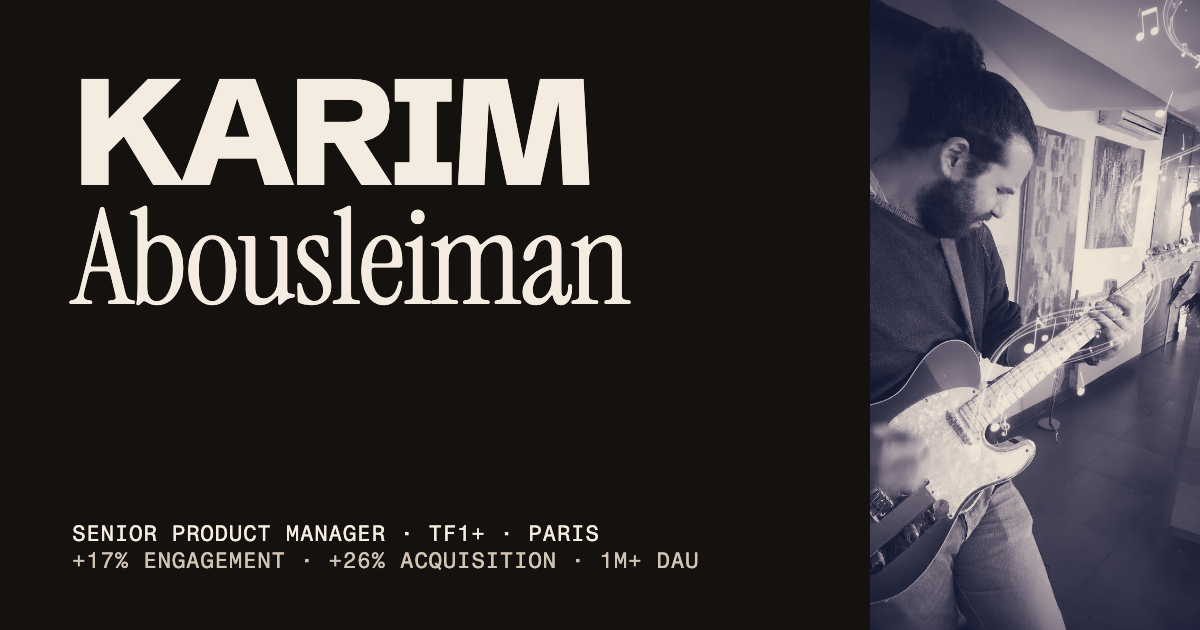
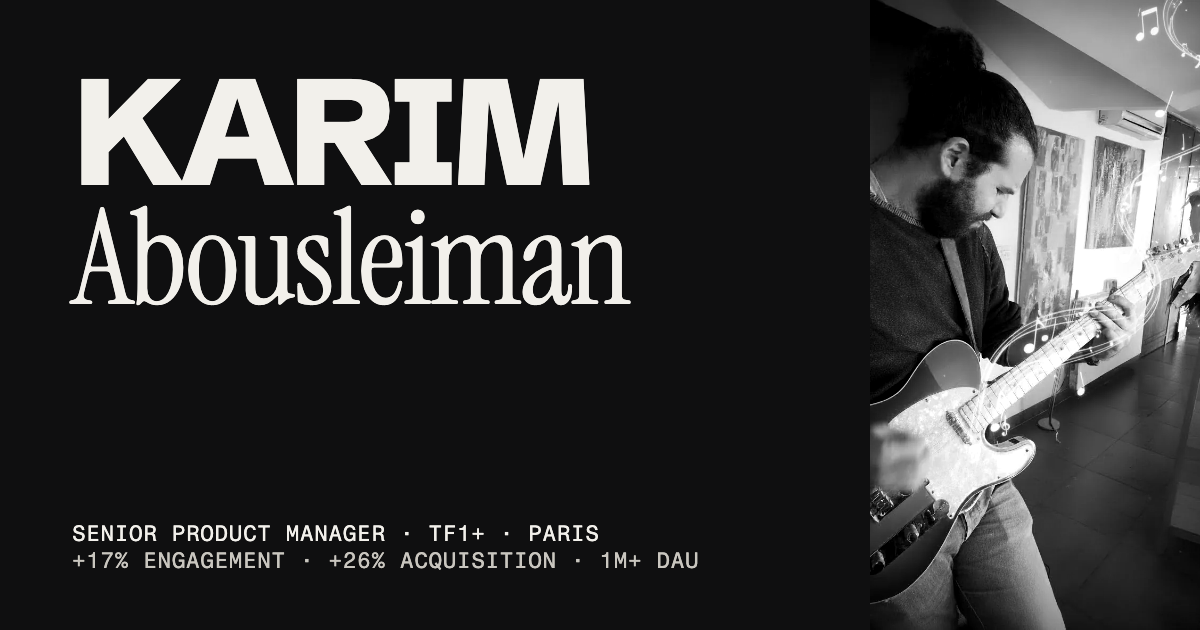
Return to the canvas palette: neutral dark, black-and-white portraits
- Restore near-black/off-white tokens and grayscale portraits
- Remove the coloured bands and duotone filter
- Outline every streaming button on the Music page
- Regenerate the link-preview image to match

Changed region(s): [[0.7092, 0.0, 1.0, 1.0], [0.9867, 0.0603, 1.0, 0.1206], [0.9558, 0.0302, 0.9867, 0.0603]]

diff --git a/src/pages/home.css b/src/pages/home.css
@@ -1,14 +1,12 @@
 .home {
-  /* Warm charcoal and cream, with a midnight "dusk": the blue hour above the sunset photographs. */
-  --h-bg: #15110e;
-  --h-dusk: #141c33;
-  --h-ink: #f5ece1;
-  --h-muted: #d0c4b5;
-  --h-body: #bfb3a5;
-  --h-meta: #a3978a;
-  --h-line: #2f2823;
-  --h-line-strong: #42382f;
-  --h-control: #7a6c60;
+  --h-bg: #0f0f10;
+  --h-ink: #f2f0eb;
+  --h-muted: #c9c6bf;
+  --h-body: #b9b7b1;
+  --h-meta: #9b9a96;
+  --h-line: #2a2a2d;
+  --h-line-strong: #3a3a3d;
+  --h-control: #6b6a67;
   --h-accent: #ff8a5c;
   --h-ease: cubic-bezier(0.16, 1, 0.3, 1);
 
@@ -147,8 +145,8 @@
 }
 
 @keyframes h-develop {
-  from { filter: url(#dusk-tone) brightness(0.2); }
-  to { filter: url(#dusk-tone) brightness(1); }
+  from { filter: grayscale(1) contrast(1.1) brightness(0.2); }
+  to { filter: grayscale(1) contrast(1.1) brightness(1); }
 }
 
 .home .intro-first { animation: h-focus 600ms var(--h-ease) both; }
@@ -157,20 +155,12 @@
 .home .intro-tag { animation: h-settle 500ms var(--h-ease) 760ms both; }
 .home .intro-portrait { animation: h-develop 1400ms var(--h-ease) 500ms both; }
 
-/* Portraits print in the dusk duotone: midnight shadows, blue-violet mids, cream highlights. */
 .home .mono-photo {
-  filter: url(#dusk-tone);
+  filter: grayscale(1) contrast(1.1);
 }
 
-/* A full-bleed midnight band that owns one region per page without breaking the container. */
-.home .dusk {
-  background: var(--h-dusk);
-  box-shadow: 0 0 0 100vmax var(--h-dusk);
-  clip-path: inset(0 -100vmax);
-}
-
-.home .dusk-fade {
-  background: linear-gradient(90deg, var(--h-dusk) 0%, transparent 40%);
+.home .photo-fade {
+  background: linear-gradient(90deg, var(--h-bg) 0%, transparent 40%);
 }
 
 .home .menu-panel {

diff --git a/src/components/SiteShell.tsx b/src/components/SiteShell.tsx
@@ -146,7 +146,7 @@ const SiteShell = ({ title, children }: { title: string; children: React.ReactNo
   useEffect(() => {
     const root = document.documentElement;
     const prev = root.style.background;
-    root.style.background = "#15110e";
+    root.style.background = "#0f0f10";
     return () => {
       root.style.background = prev;
     };
@@ -163,17 +163,7 @@ const SiteShell = ({ title, children }: { title: string; children: React.ReactNo
   return (
     <MotionConfig reducedMotion="user">
       <div className="home">
-        <svg aria-hidden="true" width="0" height="0" className="absolute">
-          <filter id="dusk-tone" colorInterpolationFilters="sRGB">
-            <feColorMatrix type="matrix" values="0.2126 0.7152 0.0722 0 0  0.2126 0.7152 0.0722 0 0  0.2126 0.7152 0.0722 0 0  0 0 0 1 0" />
-            <feComponentTransfer>
-              <feFuncR type="table" tableValues="0.06 0.50 0.96" />
-              <feFuncG type="table" tableValues="0.08 0.46 0.92" />
-              <feFuncB type="table" tableValues="0.17 0.52 0.86" />
-            </feComponentTransfer>
-          </filter>
-        </svg>
-        <header className="sticky top-0 z-20 border-b border-[var(--h-line)] bg-[rgb(21_17_14/0.88)] backdrop-blur-md md:border-transparent md:bg-[var(--h-bg)] md:backdrop-blur-none">
+        <header className="sticky top-0 z-20 border-b border-[var(--h-line)] bg-[rgb(15_15_16/0.88)] backdrop-blur-md md:border-transparent md:bg-[var(--h-bg)] md:backdrop-blur-none">
           <div className="mx-auto flex h-14 max-w-[1280px] items-center justify-between px-4 md:h-16 md:px-12">
             {brand}
             <nav aria-label="Main" className="hidden md:block">

diff --git a/src/components/VisualArtsSection.tsx b/src/components/VisualArtsSection.tsx
@@ -64,7 +64,7 @@ const VisualArtsSection = () => {
         className="photo-tile relative -mx-4 block w-[calc(100%+2rem)] overflow-hidden md:-mx-12 md:w-[calc(100%+6rem)]"
       >
         <img src={lead.url} alt={lead.alt} className="block h-[300px] w-full object-cover md:h-[640px]" />
-        <span className="absolute inset-x-0 bottom-0 flex justify-between bg-[linear-gradient(transparent,rgb(21_17_14/0.75))] px-4 pb-4 pt-16 text-left md:px-12 md:pb-6">
+        <span className="absolute inset-x-0 bottom-0 flex justify-between bg-[linear-gradient(transparent,rgb(10_10_11/0.7))] px-4 pb-4 pt-16 text-left md:px-12 md:pb-6">
           <span className="mono text-[0.75rem] text-[var(--h-ink)]">01 — {caption(lead.title).toUpperCase()}</span>
           <span className="mono text-[0.75rem] text-[var(--h-ink)]">1 / {gallery.length}</span>
         </span>
@@ -99,7 +99,7 @@ const VisualArtsSection = () => {
             animate={{ opacity: 1 }}
             exit={{ opacity: 0 }}
             transition={{ duration: 0.2 }}
-            className="fixed inset-0 z-50 flex items-center justify-center bg-[rgb(21_17_14/0.95)]"
+            className="fixed inset-0 z-50 flex items-center justify-center bg-[rgb(10_10_11/0.94)]"
             onClick={closeLightbox}
           >
             <button onClick={closeLightbox} aria-label="Close" autoFocus className="mono absolute right-3 top-3 z-10 flex h-11 items-center gap-2 px-2 text-[var(--h-ink)]">

diff --git a/src/pages/Music.tsx b/src/pages/Music.tsx
@@ -4,7 +4,7 @@ import portrait from "@/assets/portrait.webp";
 
 const Music = () => (
   <SiteShell title="Music · Karim Abousleiman">
-    <section aria-labelledby="music-title" className="dusk relative -mx-4 pb-10 md:-mx-12 md:min-h-[720px] md:pb-0">
+    <section aria-labelledby="music-title" className="relative -mx-4 md:-mx-12 md:min-h-[720px]">
       <img
         src={portrait}
         alt="Karim playing a Telecaster-style electric guitar, black and white"
@@ -12,7 +12,7 @@ const Music = () => (
         height={1184}
         className="mono-photo block h-[420px] w-full object-cover object-[30%_center] md:absolute md:right-0 md:top-0 md:h-full md:w-[56%]"
       />
-      <div aria-hidden="true" className="dusk-fade absolute right-0 top-0 hidden h-full w-[56%] md:block" />
+      <div aria-hidden="true" className="photo-fade absolute right-0 top-0 hidden h-full w-[56%] md:block" />
       <div className="relative px-4 pt-8 md:absolute md:bottom-16 md:left-12 md:w-[640px] md:px-0 md:pt-0">
         <p className="mono m-0 text-[var(--h-meta)]">RELEASED AS KIMBÜ</p>
         <h1 id="music-title" className="serif m-0 mt-2 text-[4.5rem] leading-[0.9] tracking-[-0.02em] md:mt-3 md:text-[10.5rem]">Music</h1>

diff --git a/src/pages/Index.tsx b/src/pages/Index.tsx
@@ -95,7 +95,7 @@ const Index = () => (
       </Link>
     </section>
 
-    <section aria-labelledby="craft-title" className="dusk mt-[72px] grid gap-6 py-14 md:mt-[136px] md:grid-cols-[minmax(0,5fr)_minmax(0,7fr)] md:items-end md:gap-16 md:py-24">
+    <section aria-labelledby="craft-title" className="grid gap-6 pb-20 pt-[72px] md:grid-cols-[minmax(0,5fr)_minmax(0,7fr)] md:items-end md:gap-16 md:pb-28 md:pt-[136px]">
       <div>
         <h2 id="craft-title" className="serif m-0 text-[2.5rem] leading-[1.02] md:text-[3.25rem]">Same craft, different medium.</h2>
         <p className="m-0 mt-3.5 max-w-[26rem] text-[0.9375rem] leading-[1.6] text-[var(--h-muted)] md:mt-5 md:text-base">

diff --git a/index.html b/index.html
@@ -3,7 +3,7 @@
   <head>
     <meta charset="UTF-8" />
     <meta name="viewport" content="width=device-width, initial-scale=1.0" />
-    <meta name="theme-color" content="#15110e" />
+    <meta name="theme-color" content="#0f0f10" />
     <title>Karim Abousleiman · Senior Product Manager, Paris</title>
     <meta name="description" content="Senior Product Manager at TF1+ in Paris. +17% engagement at TF1+, +26% acquisition at Garantme, 1M+ daily users at Myki. Also releases music as kimbü and takes photographs." />
     <meta name="author" content="Karim Abousleiman" />
